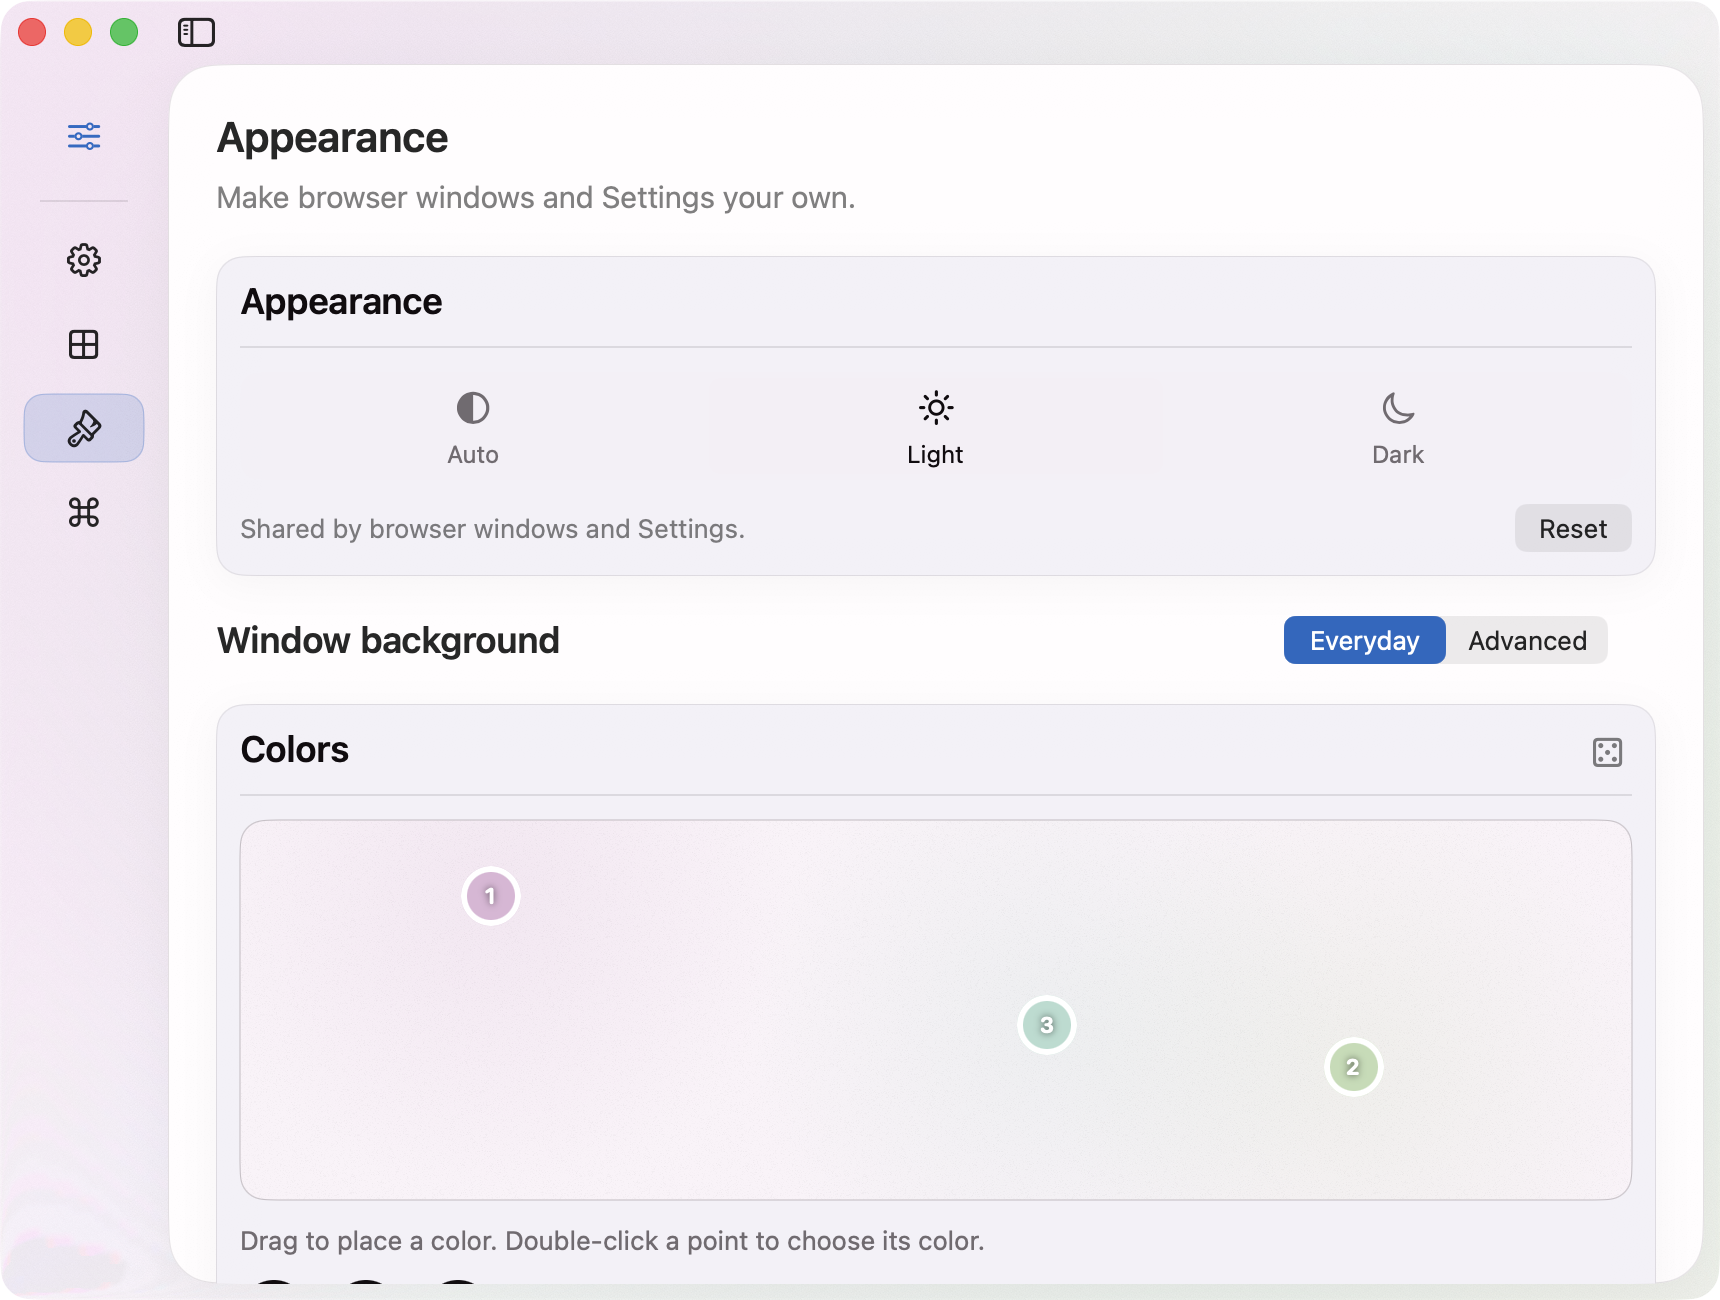
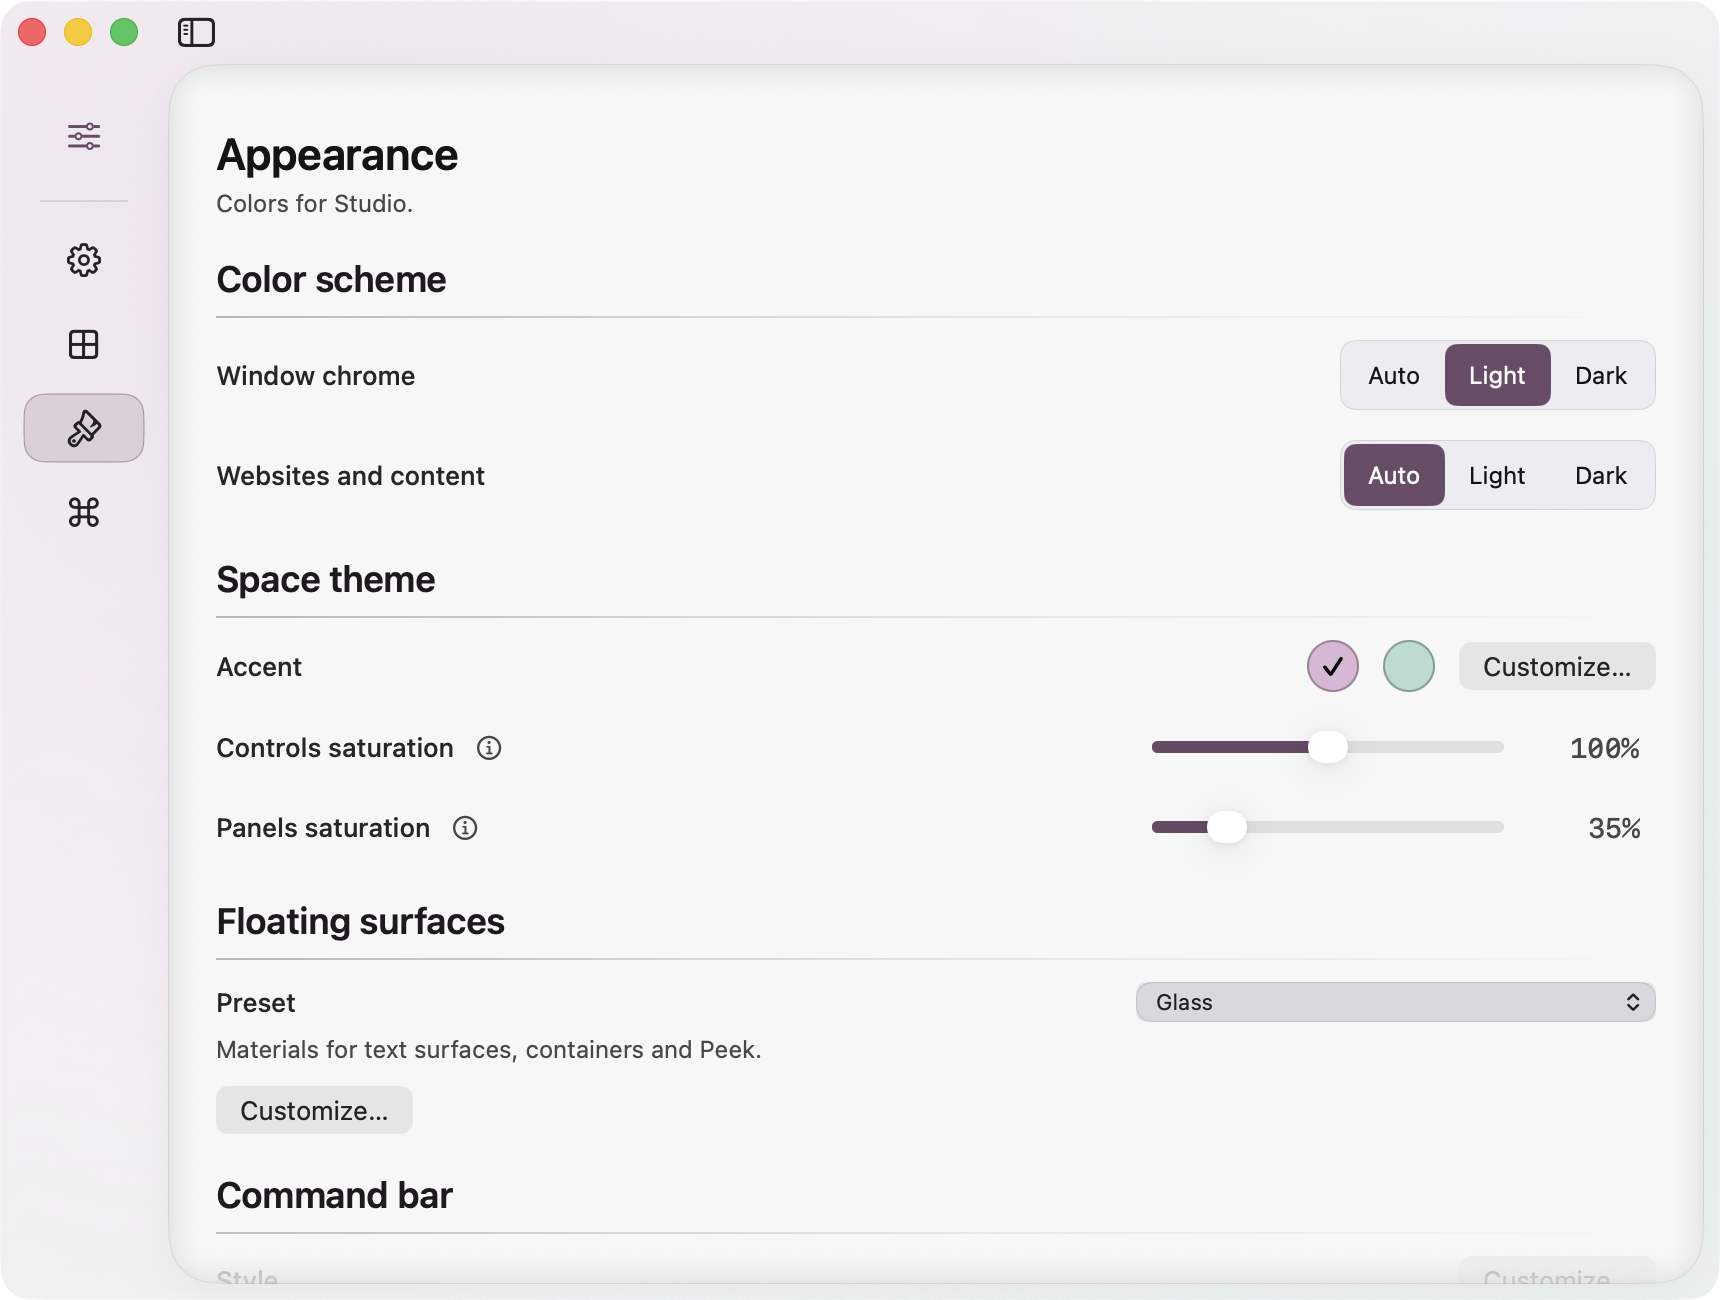
Arcium glass screenshot gallery
Replace the six README images with native captures from the optimized October 22 development build. Hide the main address bar, load real Favorite and Pin favicons, and show the current Glass preset for readable MRU previews. Label the development screenshots separately from the October 17 download.

diff --git a/README.md b/README.md
@@ -4,7 +4,9 @@ Helium's privacy and speed, with an Arc-inspired workspace you can make your own
 
 Arcium brings Spaces, Pins, Favorites, Peek, and Little Arc to [Helium](https://helium.computer/), with native macOS settings and more ways to shape the browser's colors and layout. This is an early preview, with the source included.
 
-![Arcium's pastel sidebar with Favorites, Pins, and a full-height page](docs/assets/arcium-layout.png)
+![Arcium's pastel sidebar with Favorites and Pins](docs/assets/arcium-layout.png)
+
+Screenshots show the October 22 development build with the newer glass styling. The download below is the October 17 preview.
 
 [Download the macOS preview](../../releases) · [Release notes](docs/preview-release.md) · [Build from source](docs/building.md)
 
@@ -34,7 +36,7 @@ These are planned directions, not features in the download. Chromium updates and
 
 Put navigation in the sidebar, choose your layout and collapse behavior, and tune colors, glass, grain, borders, and UI scale. Native Settings gives you direct control over the browser's appearance.
 
-![Native appearance settings and a pastel spatial color canvas](docs/assets/appearance.png)
+![Native appearance settings with Space colors and the Glass preset](docs/assets/appearance.png)
 
 ## Pins and Favorites
 
